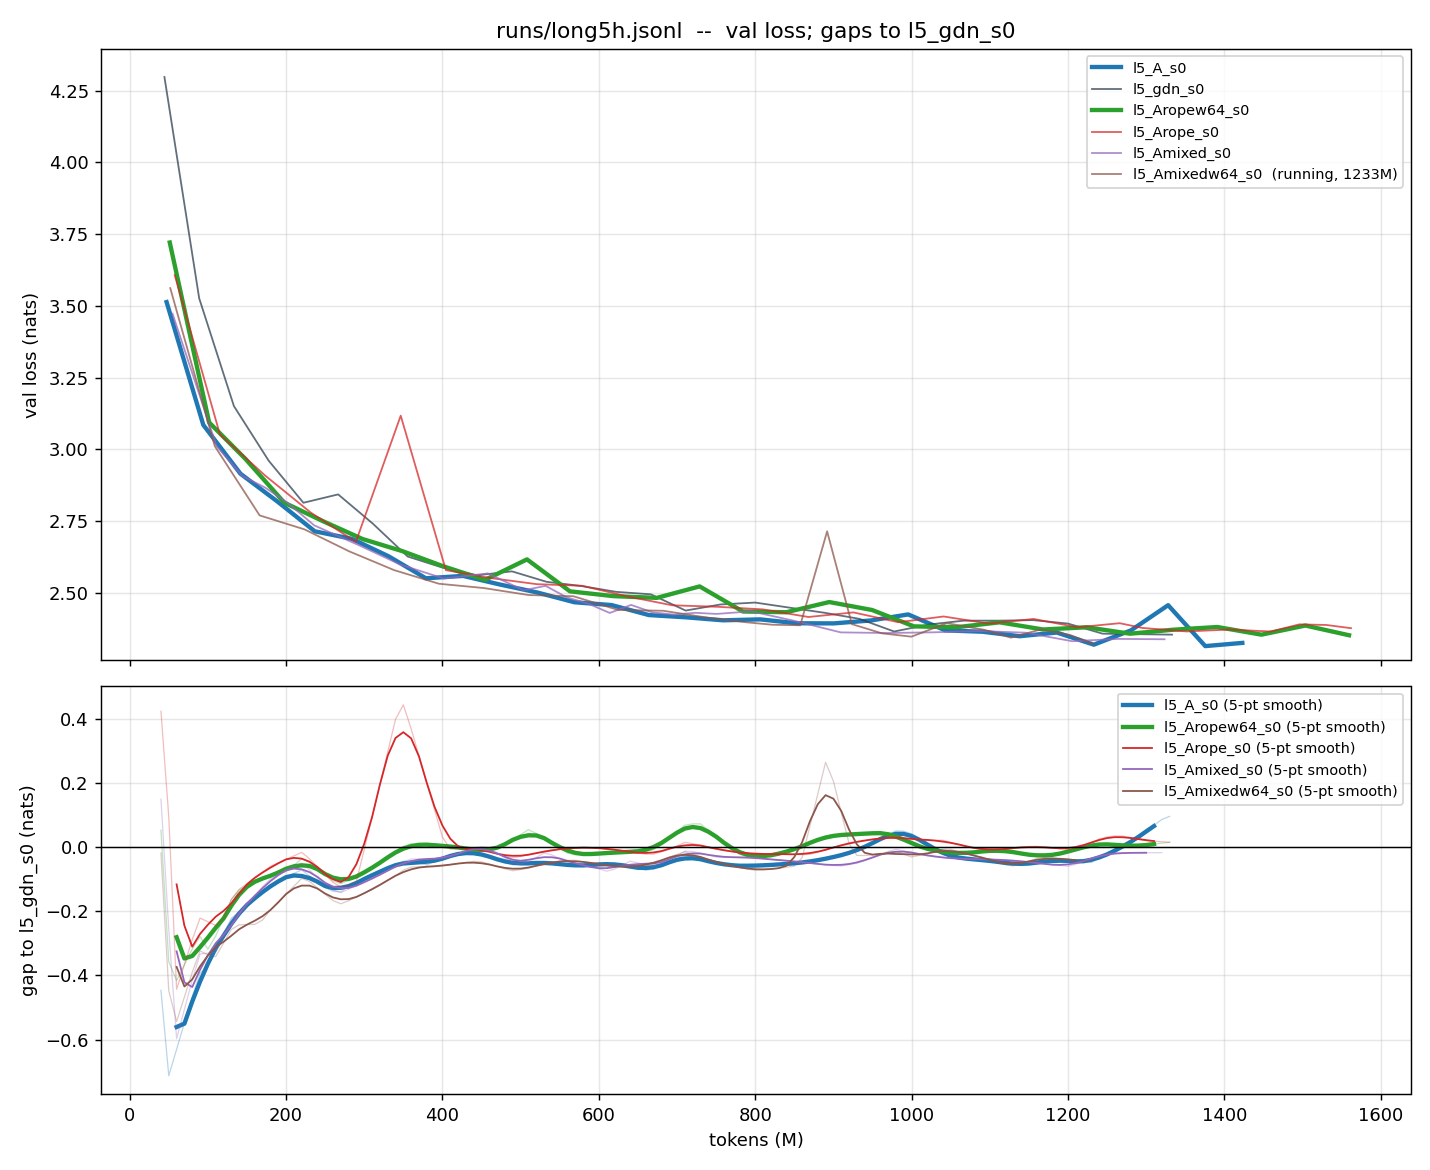
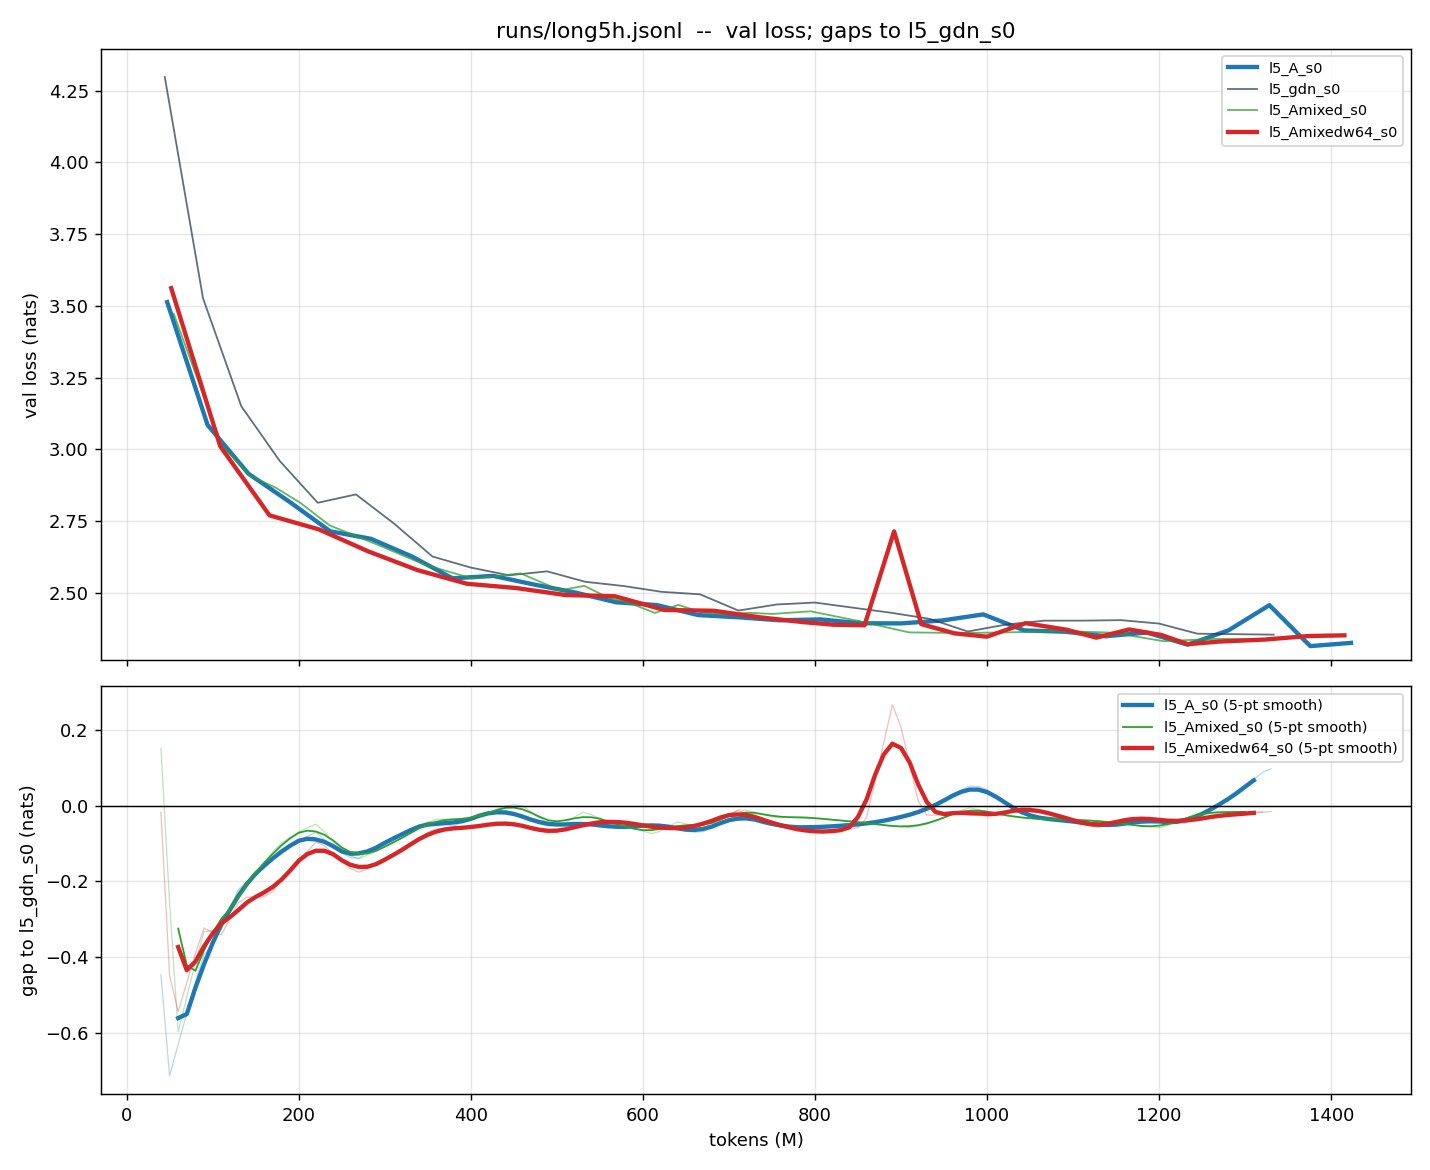
candidate LM result: parity with A (-0.031 vs GDN), copy 0.69 exact @512 -> LapA v1 = mixed grid + window 64

diff --git a/CATCHUP.md b/CATCHUP.md
@@ -561,6 +561,25 @@ champion (rope 1e3 + w64) had 0.14. The 4000-step dip was one of several single-
 spikes (constant lr 1e-3); the trend between them is monotone. The 5 h LM run of the same
 layer (`l5_Amixedw64_s0`) started 07:39.
 
+### The candidate in the LM (2026-09-11, 12:45) — no regression
+
+`l5_Amixedw64_s0` (mixed grid + window 64, ff 424, 186,337 params/layer), XL 5 h, 1415M
+tokens, val 2.3526. Gap to GDN, median of the last 25%: **−0.031** (A −0.037, mixed grid
+−0.036). Against A at matched tokens: −0.021 (300–600M), +0.004 (600–900M), +0.004
+(900–1200M) — parity within a single eval's noise, slightly ahead early. One corpus spike
+at 892M (train 0.31, val +0.30 for one eval), recovered at the next. Perplexity from the
+median of the last three evals: A 10.24, mixed 10.37, candidate 10.49, GDN 10.56 — the
+3-eval median is noisier than the last-quarter gap; the latter is the number to quote.
+
+So the layer that copies 512-token strings exactly 69% of the time (33k floats of state)
+is, in language modelling, A: ~0.03 nats below Gated DeltaNet at 1.4B tokens, 1.33× its
+stack speed (blocked), same decode. Eval-spike census across the XL arms: GDN 0, every
+LapA arm 1–2 (each recovered within one eval; a persistent memory takes a duplicated file
+harder than a forgetting one — cosine/clipping territory, not architecture).
+
+**Laplace Attention v1 = mixed grid (slow_frac 0.25, base 1e3) + window 64, M=190.**
+Queued: copy with window 32 on the same grid (does the window halve for free?).
+
 ### Speed pass on Laplace Attention (2026-09-10, in progress)
 
 Profile of A's layer under compile (B=8, T=1024, fwd+bwd): long head 65%, short
